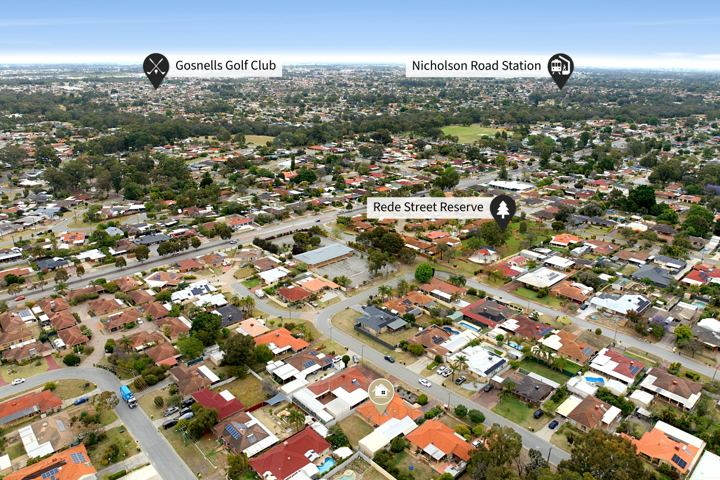
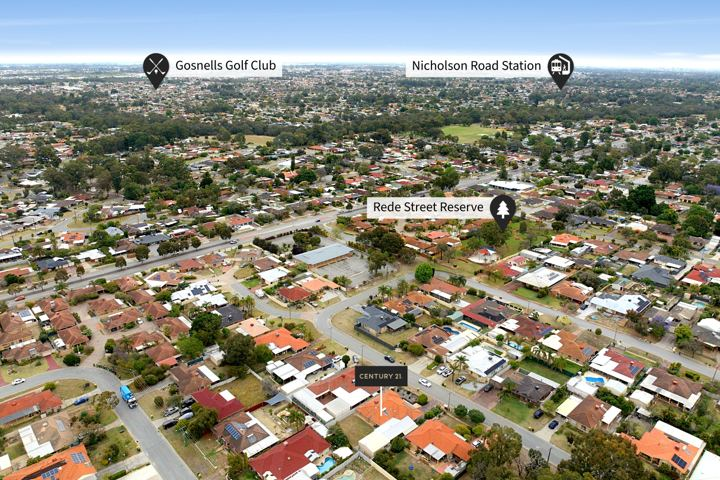
Century 21 board on the house pin (Jason) + 22 Sandridge re-pinned: important places over pocket reserves
Claude-Session: https://claude.ai/code/session_01A5qGg2LnJXxgSHoMQFvEEG

Changed region(s): [[0.4889, 0.75, 0.5806, 0.875]]

diff --git a/pins/index.html b/pins/index.html
@@ -253,6 +253,7 @@ const BAND_GAINS=[0.521, 0.274, -0.009, -0.091];
 
 // Agency marks cut from the editors' delivered finals (drawn clipped to a circle)
 const AGENCY_MARKS = {
[4 lines of base64/hex data omitted]
@@ -902,7 +903,7 @@ const AGENCIES = {
   "grey":        { name:"Default — plain grey pins (agency not recognised)", kind:"pin", color:"#8A8A8A", house:{ type:"pin", w:240, h:340, mark:"house", ring:true } },
   "rodway":      { name:"Rodway Group — black pins", kind:"pin", color:"#111111", line:"#2A2A2A", house:{ type:"pin", w:240, h:340, mark:"house", ring:true } },
 "charcoal":    { name:"Raspa — charcoal pins (John O'Brien, Simon Raspa)", kind:"pin", color:"#3A3C40", house:{ type:"pin", w:240, h:340, mark:"house", ring:true } },
-  "c21":         { name:"Century 21 — Obsessed Grey pins, Relentless Gold house (Josh Brockhurst)", kind:"pin", color:"#252526", house:{ type:"pin", w:240, h:340, mark:"house", ring:true, color:"#BEAF87" } },
+  "c21":         { name:"Century 21 — Obsessed Grey pins + Century 21 board (Josh Brockhurst)", kind:"pin", color:"#252526", house:{ type:"board", w:285, h:111, stem:160, mark:"c21" } },   /* 3 Nov (Jason): Century 21 logo board on the house */
   "grey-s":      { name:"Grey pins + S logo (Kasey Summers, Semple)",               kind:"pin",  color:"#9C9C9C", house:{ type:"pin", w:255, h:360, mark:"s", markR:.9, ring:true } },
   "black-photo": { name:"Black pins + agent photo (Jayden Cooke)",          kind:"pin",  color:"#060606", house:{ type:"pin", w:236, h:330, mark:"photo", markR:.69 } },
   "navy":        { name:"Navy pins + emblem (Biljana)",                     kind:"pin",  color:"#122068", scale:.88, house:{ type:"board", w:170, h:143, stem:300, mark:"emblem" } },

diff --git a/aerials/02-nov-2026/index.html b/aerials/02-nov-2026/index.html
@@ -5,4 +5,4 @@ body{margin:0;background:var(--bg);color:var(--fg);font:15px/1.45 system-ui,-app
 header,section{max-width:1400px;margin:auto;padding:18px 16px}h1{font-size:20px;margin:0}h2{font-size:17px;margin:0}header p,section p{color:var(--mut);margin:4px 0 0}
 .ed{margin-left:10px;color:var(--acc);font-weight:600;text-decoration:none}a{color:var(--acc)}
 .chk{margin-top:10px}.chk summary{cursor:pointer;color:var(--mut);font-weight:600}.chk iframe{width:100%;height:420px;border:0;border-radius:6px;margin-top:6px;background:#111}.g{display:grid;grid-template-columns:repeat(auto-fill,minmax(280px,1fr));gap:8px;margin-top:10px}.g img{width:100%;display:block;border-radius:4px}</style></head>
-<body><header><h1>Drone edits — Mon 2 Nov 2026</h1><p>Tap a photo for full size. <b>Edit</b> opens the job in the <a href="/pins/">editor</a> with all its pins and settings.</p></header><section><h2>14 Palomino Pl, Greenfields WA 6210</h2><p>David Beshay · Beshay Realty · 7 photos (top-downs first) <a class="ed" href="/pins/?open=02-nov-2026/14_palomino_pl">Edit</a><a class="ed" href="/lots/?img=/aerials/02-nov-2026/14_palomino_pl/src/DJI_20261102132705_0002_D_r270.jpg&street=Palomino%20Place" target="_blank">Lots</a><a class="ed" href="14_palomino_pl/check.html" target="_blank">Check map</a></p><div class="g"><a href="14_palomino_pl/DJI_20261102132705_0002_D_r270.jpg?v=1793662740" target="_blank"><img loading="lazy" src="14_palomino_pl/t/DJI_20261102132705_0002_D_r270.jpg?v=1793662740" alt=""></a><a href="14_palomino_pl/DJI_20261102132642_0001_D_r270.jpg?v=1793662740" target="_blank"><img loading="lazy" src="14_palomino_pl/t/DJI_20261102132642_0001_D_r270.jpg?v=1793662740" alt=""></a><a href="14_palomino_pl/DJI_20261102132733_0003_D.jpg?v=1793662740" target="_blank"><img loading="lazy" src="14_palomino_pl/t/DJI_20261102132733_0003_D.jpg?v=1793662740" alt=""></a><a href="14_palomino_pl/DJI_20261102132745_0004_D.jpg?v=1793662740" target="_blank"><img loading="lazy" src="14_palomino_pl/t/DJI_20261102132745_0004_D.jpg?v=1793662740" alt=""></a><a href="14_palomino_pl/DJI_20261102132803_0005_D.jpg?v=1793662740" target="_blank"><img loading="lazy" src="14_palomino_pl/t/DJI_20261102132803_0005_D.jpg?v=1793662740" alt=""></a><a href="14_palomino_pl/DJI_20261102132828_0006_D.jpg?v=1793662740" target="_blank"><img loading="lazy" src="14_palomino_pl/t/DJI_20261102132828_0006_D.jpg?v=1793662740" alt=""></a><a href="14_palomino_pl/DJI_20261102132849_0007_D.jpg?v=1793662740" target="_blank"><img loading="lazy" src="14_palomino_pl/t/DJI_20261102132849_0007_D.jpg?v=1793662740" alt=""></a></div><details class="chk" open><summary>Quick check — boundary + 7 pinned places</summary><iframe loading="lazy" src="14_palomino_pl/check.html?v=1793662742" title="Boundary and places check"></iframe></details></section><section><h2>32B Hetherington Dr, Bull Creek WA 6149</h2><p>Raymond Chen · Top Realty · 8 photos (top-downs first) <a class="ed" href="/pins/?open=02-nov-2026/32b_hetherington_dr">Edit</a><a class="ed" href="/lots/?img=/aerials/02-nov-2026/32b_hetherington_dr/src/dji_fly_20261102_120130_0118_1793624048044_photo_r180.jpg&street=Hetherington%20Drive" target="_blank">Lots</a><a class="ed" href="32b_hetherington_dr/check.html" target="_blank">Check map</a></p><div class="g"><a href="32b_hetherington_dr/dji_fly_20261102_120130_0118_1793624048044_photo_r180.jpg?v=1793662746" target="_blank"><img loading="lazy" src="32b_hetherington_dr/t/dji_fly_20261102_120130_0118_1793624048044_photo_r180.jpg?v=1793662746" alt=""></a><a href="32b_hetherington_dr/dji_fly_20261102_120116_0117_1793624048701_photo_r90.jpg?v=1793662746" target="_blank"><img loading="lazy" src="32b_hetherington_dr/t/dji_fly_20261102_120116_0117_1793624048701_photo_r90.jpg?v=1793662746" alt=""></a><a href="32b_hetherington_dr/dji_fly_20261102_120204_0119_1793624047389_photo.jpg?v=1793662746" target="_blank"><img loading="lazy" src="32b_hetherington_dr/t/dji_fly_20261102_120204_0119_1793624047389_photo.jpg?v=1793662746" alt=""></a><a href="32b_hetherington_dr/dji_fly_20261102_120232_0120_1793624046706_photo.jpg?v=1793662746" target="_blank"><img loading="lazy" src="32b_hetherington_dr/t/dji_fly_20261102_120232_0120_1793624046706_photo.jpg?v=1793662746" alt=""></a><a href="32b_hetherington_dr/dji_fly_20261102_120314_0121_1793624046011_photo.jpg?v=1793662746" target="_blank"><img loading="lazy" src="32b_hetherington_dr/t/dji_fly_20261102_120314_0121_1793624046011_photo.jpg?v=1793662746" alt=""></a><a href="32b_hetherington_dr/dji_fly_20261102_120404_0123_1793624044695_photo.jpg?v=1793662746" target="_blank"><img loading="lazy" src="32b_hetherington_dr/t/dji_fly_20261102_120404_0123_1793624044695_photo.jpg?v=1793662746" alt=""></a><a href="32b_hetherington_dr/dji_fly_20261102_120458_0125_1793624043444_photo.jpg?v=1793662746" target="_blank"><img loading="lazy" src="32b_hetherington_dr/t/dji_fly_20261102_120458_0125_1793624043444_photo.jpg?v=1793662746" alt=""></a><a href="32b_hetherington_dr/dji_fly_20261102_120518_0126_1793624042763_photo.jpg?v=1793662746" target="_blank"><img loading="lazy" src="32b_hetherington_dr/t/dji_fly_20261102_120518_0126_1793624042763_photo.jpg?v=1793662746" alt=""></a></div><details class="chk" open><summary>Quick check — boundary + 12 pinned places</summary><iframe loading="lazy" src="32b_hetherington_dr/check.html?v=1793662749" title="Boundary and places check"></iframe></details></section><section><h2>3 Bundalla Ct, Kelmscott WA 6111</h2><p>Naomi Nation (owner) · 11 photos (top-downs first) <a class="ed" href="/pins/?open=02-nov-2026/3_bundalla_ct">Edit</a><a class="ed" href="/lots/?img=/aerials/02-nov-2026/3_bundalla_ct/src/dji_fly_20261102_123202_0964_1793609126302_photo_r90.JPG&street=Bundalla%20Court" target="_blank">Lots</a><a class="ed" href="3_bundalla_ct/check.html" target="_blank">Check map</a></p><div class="g"><a href="3_bundalla_ct/dji_fly_20261102_123202_0964_1793609126302_photo_r90.jpg?v=1793662759" target="_blank"><img loading="lazy" src="3_bundalla_ct/t/dji_fly_20261102_123202_0964_1793609126302_photo_r90.jpg?v=1793662759" alt=""></a><a href="3_bundalla_ct/dji_fly_20261102_123204_0965_1793609124788_photo.jpg?v=1793662759" target="_blank"><img loading="lazy" src="3_bundalla_ct/t/dji_fly_20261102_123204_0965_1793609124788_photo.jpg?v=1793662759" alt=""></a><a href="3_bundalla_ct/dji_fly_20261102_122642_0955_1793609139081_photo.jpg?v=1793662759" target="_blank"><img loading="lazy" src="3_bundalla_ct/t/dji_fly_20261102_122642_0955_1793609139081_photo.jpg?v=1793662759" alt=""></a><a href="3_bundalla_ct/dji_fly_20261102_122920_0956_1793609137586_photo.jpg?v=1793662759" target="_blank"><img loading="lazy" src="3_bundalla_ct/t/dji_fly_20261102_122920_0956_1793609137586_photo.jpg?v=1793662759" alt=""></a><a href="3_bundalla_ct/dji_fly_20261102_122934_0957_1793609136345_photo.jpg?v=1793662759" target="_blank"><img loading="lazy" src="3_bundalla_ct/t/dji_fly_20261102_122934_0957_1793609136345_photo.jpg?v=1793662759" alt=""></a><a href="3_bundalla_ct/dji_fly_20261102_122952_0958_1793609134672_photo.jpg?v=1793662759" target="_blank"><img loading="lazy" src="3_bundalla_ct/t/dji_fly_20261102_122952_0958_1793609134672_photo.jpg?v=1793662759" alt=""></a><a href="3_bundalla_ct/dji_fly_20261102_123010_0959_1793609132937_photo.jpg?v=1793662759" target="_blank"><img loading="lazy" src="3_bundalla_ct/t/dji_fly_20261102_123010_0959_1793609132937_photo.jpg?v=1793662759" alt=""></a><a href="3_bundalla_ct/dji_fly_20261102_123040_0960_1793609131670_photo.jpg?v=1793662759" target="_blank"><img loading="lazy" src="3_bundalla_ct/t/dji_fly_20261102_123040_0960_1793609131670_photo.jpg?v=1793662759" alt=""></a><a href="3_bundalla_ct/dji_fly_20261102_123102_0961_1793609130439_photo.jpg?v=1793662759" target="_blank"><img loading="lazy" src="3_bundalla_ct/t/dji_fly_20261102_123102_0961_1793609130439_photo.jpg?v=1793662759" alt=""></a><a href="3_bundalla_ct/dji_fly_20261102_123116_0962_1793609128996_photo.jpg?v=1793662759" target="_blank"><img loading="lazy" src="3_bundalla_ct/t/dji_fly_20261102_123116_0962_1793609128996_photo.jpg?v=1793662759" alt=""></a><a href="3_bundalla_ct/dji_fly_20261102_123128_0963_1793609127652_photo.jpg?v=1793662759" target="_blank"><img loading="lazy" src="3_bundalla_ct/t/dji_fly_20261102_123128_0963_1793609127652_photo.jpg?v=1793662759" alt=""></a></div><details class="chk" open><summary>Quick check — boundary + 19 pinned places</summary><iframe loading="lazy" src="3_bundalla_ct/check.html?v=1793662762" title="Boundary and places check"></iframe></details></section><section><h2>14 Graceful St, Byford WA 6122</h2><p>Lou Smith · Harcourts · 9 photos (top-downs first) <a class="ed" href="/pins/?open=02-nov-2026/14_graceful_st">Edit</a><a class="ed" href="/lots/?img=/aerials/02-nov-2026/14_graceful_st/src/DJI_20261102201951_0035_D.jpg&street=Graceful%20Street" target="_blank">Lots</a><a class="ed" href="14_graceful_st/check.html" target="_blank">Check map</a></p><div class="g"><a href="14_graceful_st/DJI_20261102201951_0035_D.jpg?v=1793662765" target="_blank"><img loading="lazy" src="14_graceful_st/t/DJI_20261102201951_0035_D.jpg?v=1793662765" alt=""></a><a href="14_graceful_st/DJI_20261102201940_0034_D_r90.jpg?v=1793662765" target="_blank"><img loading="lazy" src="14_graceful_st/t/DJI_20261102201940_0034_D_r90.jpg?v=1793662765" alt=""></a><a href="14_graceful_st/DJI_20261102202018_0036_D.jpg?v=1793662765" target="_blank"><img loading="lazy" src="14_graceful_st/t/DJI_20261102202018_0036_D.jpg?v=1793662765" alt=""></a><a href="14_graceful_st/DJI_20261102202056_0038_D.jpg?v=1793662765" target="_blank"><img loading="lazy" src="14_graceful_st/t/DJI_20261102202056_0038_D.jpg?v=1793662765" alt=""></a><a href="14_graceful_st/DJI_20261102202114_0039_D.jpg?v=1793662765" target="_blank"><img loading="lazy" src="14_graceful_st/t/DJI_20261102202114_0039_D.jpg?v=1793662765" alt=""></a><a href="14_graceful_st/DJI_20261102202130_0040_D.jpg?v=1793662765" target="_blank"><img loading="lazy" src="14_graceful_st/t/DJI_20261102202130_0040_D.jpg?v=1793662765" alt=""></a><a href="14_graceful_st/DJI_20261102202149_0041_D.jpg?v=1793662765" target="_blank"><img loading="lazy" src="14_graceful_st/t/DJI_20261102202149_0041_D.jpg?v=1793662765" alt=""></a><a href="14_graceful_st/DJI_20261102202206_0042_D.jpg?v=1793662765" target="_blank"><img loading="lazy" src="14_graceful_st/t/DJI_20261102202206_0042_D.jpg?v=1793662765" alt=""></a><a href="14_graceful_st/DJI_20261102202224_0043_D.jpg?v=1793662765" target="_blank"><img loading="lazy" src="14_graceful_st/t/DJI_20261102202224_0043_D.jpg?v=1793662765" alt=""></a></div><details class="chk" open><summary>Quick check — boundary + 11 pinned places</summary><iframe loading="lazy" src="14_graceful_st/check.html?v=1793662766" title="Boundary and places check"></iframe></details></section><section><h2>22 Sandridge St, Gosnells WA 6110</h2><p>Danny Sharrett · Century 21 Team Brockhurst · 10 photos (top-downs first) <a class="ed" href="/pins/?open=02-nov-2026/22_sandridge_st">Edit</a><a class="ed" href="/lots/?img=/aerials/02-nov-2026/22_sandridge_st/src/DJI_20261102175303_0025_D.jpg&street=Sandridge%20Street" target="_blank">Lots</a><a class="ed" href="22_sandridge_st/check.html" target="_blank">Check map</a></p><div class="g"><a href="22_sandridge_st/22_sandridge_st_potential_lots.jpg" target="_blank"><img loading="lazy" src="22_sandridge_st/t/22_sandridge_st_potential_lots.jpg" alt="Potential 2 lots"></a><a href="22_sandridge_st/DJI_20261102175303_0025_D.jpg?v=1793662770" target="_blank"><img loading="lazy" src="22_sandridge_st/t/DJI_20261102175303_0025_D.jpg?v=1793662770" alt=""></a><a href="22_sandridge_st/DJI_20261102175251_0024_D_r270.jpg?v=1793662770" target="_blank"><img loading="lazy" src="22_sandridge_st/t/DJI_20261102175251_0024_D_r270.jpg?v=1793662770" alt=""></a><a href="22_sandridge_st/DJI_20261102175327_0026_D.jpg?v=1793662770" target="_blank"><img loading="lazy" src="22_sandridge_st/t/DJI_20261102175327_0026_D.jpg?v=1793662770" alt=""></a><a href="22_sandridge_st/DJI_20261102175340_0027_D.jpg?v=1793662770" target="_blank"><img loading="lazy" src="22_sandridge_st/t/DJI_20261102175340_0027_D.jpg?v=1793662770" alt=""></a><a href="22_sandridge_st/DJI_20261102175355_0028_D.jpg?v=1793662770" target="_blank"><img loading="lazy" src="22_sandridge_st/t/DJI_20261102175355_0028_D.jpg?v=1793662770" alt=""></a><a href="22_sandridge_st/DJI_20261102175407_0029_D.jpg?v=1793662770" target="_blank"><img loading="lazy" src="22_sandridge_st/t/DJI_20261102175407_0029_D.jpg?v=1793662770" alt=""></a><a href="22_sandridge_st/DJI_20261102175423_0030_D.jpg?v=1793662770" target="_blank"><img loading="lazy" src="22_sandridge_st/t/DJI_20261102175423_0030_D.jpg?v=1793662770" alt=""></a><a href="22_sandridge_st/DJI_20261102175436_0031_D.jpg?v=1793662770" target="_blank"><img loading="lazy" src="22_sandridge_st/t/DJI_20261102175436_0031_D.jpg?v=1793662770" alt=""></a><a href="22_sandridge_st/DJI_20261102175449_0032_D.jpg?v=1793662770" target="_blank"><img loading="lazy" src="22_sandridge_st/t/DJI_20261102175449_0032_D.jpg?v=1793662770" alt=""></a><a href="22_sandridge_st/DJI_20261102175502_0033_D.jpg?v=1793662770" target="_blank"><img loading="lazy" src="22_sandridge_st/t/DJI_20261102175502_0033_D.jpg?v=1793662770" alt=""></a></div><details class="chk" open><summary>Quick check — boundary + 14 pinned places</summary><iframe loading="lazy" src="22_sandridge_st/check.html?v=1793662772" title="Boundary and places check"></iframe></details></section><section><h2>10 Spotted Wy, Alkimos WA 6038</h2><p>Brodie Morris · Northern Coast · 8 photos (top-downs first) <a class="ed" href="/pins/?open=02-nov-2026/10_spotted_wy">Edit</a><a class="ed" href="/lots/?img=/aerials/02-nov-2026/10_spotted_wy/src/dji_fly_20261102_161908_0127_1793624042210_photo_r270.jpg&street=Spotted%20Way" target="_blank">Lots</a><a class="ed" href="10_spotted_wy/check.html" target="_blank">Check map</a></p><div class="g"><a href="10_spotted_wy/dji_fly_20261102_161908_0127_1793624042210_photo_r270.jpg?v=1793662776" target="_blank"><img loading="lazy" src="10_spotted_wy/t/dji_fly_20261102_161908_0127_1793624042210_photo_r270.jpg?v=1793662776" alt=""></a><a href="10_spotted_wy/dji_fly_20261102_161928_0128_1793624041469_photo_r180.jpg?v=1793662776" target="_blank"><img loading="lazy" src="10_spotted_wy/t/dji_fly_20261102_161928_0128_1793624041469_photo_r180.jpg?v=1793662776" alt=""></a><a href="10_spotted_wy/dji_fly_20261102_162120_0130_1793624040060_photo.jpg?v=1793662776" target="_blank"><img loading="lazy" src="10_spotted_wy/t/dji_fly_20261102_162120_0130_1793624040060_photo.jpg?v=1793662776" alt=""></a><a href="10_spotted_wy/dji_fly_20261102_162206_0131_1793624039343_photo.jpg?v=1793662776" target="_blank"><img loading="lazy" src="10_spotted_wy/t/dji_fly_20261102_162206_0131_1793624039343_photo.jpg?v=1793662776" alt=""></a><a href="10_spotted_wy/dji_fly_20261102_162304_0133_1793624037995_photo.jpg?v=1793662776" target="_blank"><img loading="lazy" src="10_spotted_wy/t/dji_fly_20261102_162304_0133_1793624037995_photo.jpg?v=1793662776" alt=""></a><a href="10_spotted_wy/dji_fly_20261102_162342_0134_1793624037277_photo.jpg?v=1793662776" target="_blank"><img loading="lazy" src="10_spotted_wy/t/dji_fly_20261102_162342_0134_1793624037277_photo.jpg?v=1793662776" alt=""></a><a href="10_spotted_wy/dji_fly_20261102_162530_0136_1793624035993_photo.jpg?v=1793662776" target="_blank"><img loading="lazy" src="10_spotted_wy/t/dji_fly_20261102_162530_0136_1793624035993_photo.jpg?v=1793662776" alt=""></a><a href="10_spotted_wy/dji_fly_20261102_162618_0137_1793624035325_photo.jpg?v=1793662776" target="_blank"><img loading="lazy" src="10_spotted_wy/t/dji_fly_20261102_162618_0137_1793624035325_photo.jpg?v=1793662776" alt=""></a></div><details class="chk" open><summary>Quick check — boundary + 12 pinned places</summary><iframe loading="lazy" src="10_spotted_wy/check.html?v=1793662778" title="Boundary and places check"></iframe></details></section><section><h2>9/95 Tyler St, Tuart Hill WA 6060</h2><p>Telaya · Holdsworth · 9 photos (top-downs first) <a class="ed" href="/pins/?open=02-nov-2026/9_95_tyler_st">Edit</a><a class="ed" href="/lots/?img=/aerials/02-nov-2026/9_95_tyler_st/src/dji_fly_20261102_173256_0139_1793624033900_photo_r90.jpg&street=Tyler%20Street" target="_blank">Lots</a><a class="ed" href="9_95_tyler_st/check.html" target="_blank">Check map</a></p><div class="g"><a href="9_95_tyler_st/dji_fly_20261102_173256_0139_1793624033900_photo_r90.jpg?v=1793662783" target="_blank"><img loading="lazy" src="9_95_tyler_st/t/dji_fly_20261102_173256_0139_1793624033900_photo_r90.jpg?v=1793662783" alt=""></a><a href="9_95_tyler_st/dji_fly_20261102_173246_0138_1793624034672_photo_r90.jpg?v=1793662783" target="_blank"><img loading="lazy" src="9_95_tyler_st/t/dji_fly_20261102_173246_0138_1793624034672_photo_r90.jpg?v=1793662783" alt=""></a><a href="9_95_tyler_st/dji_fly_20261102_173322_0140_1793624033230_photo.jpg?v=1793662783" target="_blank"><img loading="lazy" src="9_95_tyler_st/t/dji_fly_20261102_173322_0140_1793624033230_photo.jpg?v=1793662783" alt=""></a><a href="9_95_tyler_st/dji_fly_20261102_173456_0141_1793624032570_photo.jpg?v=1793662783" target="_blank"><img loading="lazy" src="9_95_tyler_st/t/dji_fly_20261102_173456_0141_1793624032570_photo.jpg?v=1793662783" alt=""></a><a href="9_95_tyler_st/dji_fly_20261102_173538_0143_1793624031197_photo.jpg?v=1793662783" target="_blank"><img loading="lazy" src="9_95_tyler_st/t/dji_fly_20261102_173538_0143_1793624031197_photo.jpg?v=1793662783" alt=""></a><a href="9_95_tyler_st/dji_fly_20261102_173558_0144_1793624030502_photo.jpg?v=1793662783" target="_blank"><img loading="lazy" src="9_95_tyler_st/t/dji_fly_20261102_173558_0144_1793624030502_photo.jpg?v=1793662783" alt=""></a><a href="9_95_tyler_st/dji_fly_20261102_173628_0145_1793624029861_photo.jpg?v=1793662783" target="_blank"><img loading="lazy" src="9_95_tyler_st/t/dji_fly_20261102_173628_0145_1793624029861_photo.jpg?v=1793662783" alt=""></a><a href="9_95_tyler_st/dji_fly_20261102_173650_0146_1793624029124_photo.jpg?v=1793662783" target="_blank"><img loading="lazy" src="9_95_tyler_st/t/dji_fly_20261102_173650_0146_1793624029124_photo.jpg?v=1793662783" alt=""></a><a href="9_95_tyler_st/dji_fly_20261102_173710_0147_1793624028372_photo.jpg?v=1793662783" target="_blank"><img loading="lazy" src="9_95_tyler_st/t/dji_fly_20261102_173710_0147_1793624028372_photo.jpg?v=1793662783" alt=""></a></div><details class="chk" open><summary>Quick check — boundary + 10 pinned places</summary><iframe loading="lazy" src="9_95_tyler_st/check.html?v=1793662785" title="Boundary and places check"></iframe></details></section><script src="../dl.js"></script></body></html>
+<body><header><h1>Drone edits — Mon 2 Nov 2026</h1><p>Tap a photo for full size. <b>Edit</b> opens the job in the <a href="/pins/">editor</a> with all its pins and settings.</p></header><section><h2>14 Palomino Pl, Greenfields WA 6210</h2><p>David Beshay · Beshay Realty · 7 photos (top-downs first) <a class="ed" href="/pins/?open=02-nov-2026/14_palomino_pl">Edit</a><a class="ed" href="/lots/?img=/aerials/02-nov-2026/14_palomino_pl/src/DJI_20261102132705_0002_D_r270.jpg&street=Palomino%20Place" target="_blank">Lots</a><a class="ed" href="14_palomino_pl/check.html" target="_blank">Check map</a></p><div class="g"><a href="14_palomino_pl/DJI_20261102132705_0002_D_r270.jpg?v=1793662740" target="_blank"><img loading="lazy" src="14_palomino_pl/t/DJI_20261102132705_0002_D_r270.jpg?v=1793662740" alt=""></a><a href="14_palomino_pl/DJI_20261102132642_0001_D_r270.jpg?v=1793662740" target="_blank"><img loading="lazy" src="14_palomino_pl/t/DJI_20261102132642_0001_D_r270.jpg?v=1793662740" alt=""></a><a href="14_palomino_pl/DJI_20261102132733_0003_D.jpg?v=1793662740" target="_blank"><img loading="lazy" src="14_palomino_pl/t/DJI_20261102132733_0003_D.jpg?v=1793662740" alt=""></a><a href="14_palomino_pl/DJI_20261102132745_0004_D.jpg?v=1793662740" target="_blank"><img loading="lazy" src="14_palomino_pl/t/DJI_20261102132745_0004_D.jpg?v=1793662740" alt=""></a><a href="14_palomino_pl/DJI_20261102132803_0005_D.jpg?v=1793662740" target="_blank"><img loading="lazy" src="14_palomino_pl/t/DJI_20261102132803_0005_D.jpg?v=1793662740" alt=""></a><a href="14_palomino_pl/DJI_20261102132828_0006_D.jpg?v=1793662740" target="_blank"><img loading="lazy" src="14_palomino_pl/t/DJI_20261102132828_0006_D.jpg?v=1793662740" alt=""></a><a href="14_palomino_pl/DJI_20261102132849_0007_D.jpg?v=1793662740" target="_blank"><img loading="lazy" src="14_palomino_pl/t/DJI_20261102132849_0007_D.jpg?v=1793662740" alt=""></a></div><details class="chk" open><summary>Quick check — boundary + 7 pinned places</summary><iframe loading="lazy" src="14_palomino_pl/check.html?v=1793662742" title="Boundary and places check"></iframe></details></section><section><h2>32B Hetherington Dr, Bull Creek WA 6149</h2><p>Raymond Chen · Top Realty · 8 photos (top-downs first) <a class="ed" href="/pins/?open=02-nov-2026/32b_hetherington_dr">Edit</a><a class="ed" href="/lots/?img=/aerials/02-nov-2026/32b_hetherington_dr/src/dji_fly_20261102_120130_0118_1793624048044_photo_r180.jpg&street=Hetherington%20Drive" target="_blank">Lots</a><a class="ed" href="32b_hetherington_dr/check.html" target="_blank">Check map</a></p><div class="g"><a href="32b_hetherington_dr/dji_fly_20261102_120130_0118_1793624048044_photo_r180.jpg?v=1793662746" target="_blank"><img loading="lazy" src="32b_hetherington_dr/t/dji_fly_20261102_120130_0118_1793624048044_photo_r180.jpg?v=1793662746" alt=""></a><a href="32b_hetherington_dr/dji_fly_20261102_120116_0117_1793624048701_photo_r90.jpg?v=1793662746" target="_blank"><img loading="lazy" src="32b_hetherington_dr/t/dji_fly_20261102_120116_0117_1793624048701_photo_r90.jpg?v=1793662746" alt=""></a><a href="32b_hetherington_dr/dji_fly_20261102_120204_0119_1793624047389_photo.jpg?v=1793662746" target="_blank"><img loading="lazy" src="32b_hetherington_dr/t/dji_fly_20261102_120204_0119_1793624047389_photo.jpg?v=1793662746" alt=""></a><a href="32b_hetherington_dr/dji_fly_20261102_120232_0120_1793624046706_photo.jpg?v=1793662746" target="_blank"><img loading="lazy" src="32b_hetherington_dr/t/dji_fly_20261102_120232_0120_1793624046706_photo.jpg?v=1793662746" alt=""></a><a href="32b_hetherington_dr/dji_fly_20261102_120314_0121_1793624046011_photo.jpg?v=1793662746" target="_blank"><img loading="lazy" src="32b_hetherington_dr/t/dji_fly_20261102_120314_0121_1793624046011_photo.jpg?v=1793662746" alt=""></a><a href="32b_hetherington_dr/dji_fly_20261102_120404_0123_1793624044695_photo.jpg?v=1793662746" target="_blank"><img loading="lazy" src="32b_hetherington_dr/t/dji_fly_20261102_120404_0123_1793624044695_photo.jpg?v=1793662746" alt=""></a><a href="32b_hetherington_dr/dji_fly_20261102_120458_0125_1793624043444_photo.jpg?v=1793662746" target="_blank"><img loading="lazy" src="32b_hetherington_dr/t/dji_fly_20261102_120458_0125_1793624043444_photo.jpg?v=1793662746" alt=""></a><a href="32b_hetherington_dr/dji_fly_20261102_120518_0126_1793624042763_photo.jpg?v=1793662746" target="_blank"><img loading="lazy" src="32b_hetherington_dr/t/dji_fly_20261102_120518_0126_1793624042763_photo.jpg?v=1793662746" alt=""></a></div><details class="chk" open><summary>Quick check — boundary + 12 pinned places</summary><iframe loading="lazy" src="32b_hetherington_dr/check.html?v=1793662749" title="Boundary and places check"></iframe></details></section><section><h2>3 Bundalla Ct, Kelmscott WA 6111</h2><p>Naomi Nation (owner) · 11 photos (top-downs first) <a class="ed" href="/pins/?open=02-nov-2026/3_bundalla_ct">Edit</a><a class="ed" href="/lots/?img=/aerials/02-nov-2026/3_bundalla_ct/src/dji_fly_20261102_123202_0964_1793609126302_photo_r90.JPG&street=Bundalla%20Court" target="_blank">Lots</a><a class="ed" href="3_bundalla_ct/check.html" target="_blank">Check map</a></p><div class="g"><a href="3_bundalla_ct/dji_fly_20261102_123202_0964_1793609126302_photo_r90.jpg?v=1793662759" target="_blank"><img loading="lazy" src="3_bundalla_ct/t/dji_fly_20261102_123202_0964_1793609126302_photo_r90.jpg?v=1793662759" alt=""></a><a href="3_bundalla_ct/dji_fly_20261102_123204_0965_1793609124788_photo.jpg?v=1793662759" target="_blank"><img loading="lazy" src="3_bundalla_ct/t/dji_fly_20261102_123204_0965_1793609124788_photo.jpg?v=1793662759" alt=""></a><a href="3_bundalla_ct/dji_fly_20261102_122642_0955_1793609139081_photo.jpg?v=1793662759" target="_blank"><img loading="lazy" src="3_bundalla_ct/t/dji_fly_20261102_122642_0955_1793609139081_photo.jpg?v=1793662759" alt=""></a><a href="3_bundalla_ct/dji_fly_20261102_122920_0956_1793609137586_photo.jpg?v=1793662759" target="_blank"><img loading="lazy" src="3_bundalla_ct/t/dji_fly_20261102_122920_0956_1793609137586_photo.jpg?v=1793662759" alt=""></a><a href="3_bundalla_ct/dji_fly_20261102_122934_0957_1793609136345_photo.jpg?v=1793662759" target="_blank"><img loading="lazy" src="3_bundalla_ct/t/dji_fly_20261102_122934_0957_1793609136345_photo.jpg?v=1793662759" alt=""></a><a href="3_bundalla_ct/dji_fly_20261102_122952_0958_1793609134672_photo.jpg?v=1793662759" target="_blank"><img loading="lazy" src="3_bundalla_ct/t/dji_fly_20261102_122952_0958_1793609134672_photo.jpg?v=1793662759" alt=""></a><a href="3_bundalla_ct/dji_fly_20261102_123010_0959_1793609132937_photo.jpg?v=1793662759" target="_blank"><img loading="lazy" src="3_bundalla_ct/t/dji_fly_20261102_123010_0959_1793609132937_photo.jpg?v=1793662759" alt=""></a><a href="3_bundalla_ct/dji_fly_20261102_123040_0960_1793609131670_photo.jpg?v=1793662759" target="_blank"><img loading="lazy" src="3_bundalla_ct/t/dji_fly_20261102_123040_0960_1793609131670_photo.jpg?v=1793662759" alt=""></a><a href="3_bundalla_ct/dji_fly_20261102_123102_0961_1793609130439_photo.jpg?v=1793662759" target="_blank"><img loading="lazy" src="3_bundalla_ct/t/dji_fly_20261102_123102_0961_1793609130439_photo.jpg?v=1793662759" alt=""></a><a href="3_bundalla_ct/dji_fly_20261102_123116_0962_1793609128996_photo.jpg?v=1793662759" target="_blank"><img loading="lazy" src="3_bundalla_ct/t/dji_fly_20261102_123116_0962_1793609128996_photo.jpg?v=1793662759" alt=""></a><a href="3_bundalla_ct/dji_fly_20261102_123128_0963_1793609127652_photo.jpg?v=1793662759" target="_blank"><img loading="lazy" src="3_bundalla_ct/t/dji_fly_20261102_123128_0963_1793609127652_photo.jpg?v=1793662759" alt=""></a></div><details class="chk" open><summary>Quick check — boundary + 19 pinned places</summary><iframe loading="lazy" src="3_bundalla_ct/check.html?v=1793662762" title="Boundary and places check"></iframe></details></section><section><h2>14 Graceful St, Byford WA 6122</h2><p>Lou Smith · Harcourts · 9 photos (top-downs first) <a class="ed" href="/pins/?open=02-nov-2026/14_graceful_st">Edit</a><a class="ed" href="/lots/?img=/aerials/02-nov-2026/14_graceful_st/src/DJI_20261102201951_0035_D.jpg&street=Graceful%20Street" target="_blank">Lots</a><a class="ed" href="14_graceful_st/check.html" target="_blank">Check map</a></p><div class="g"><a href="14_graceful_st/DJI_20261102201951_0035_D.jpg?v=1793662765" target="_blank"><img loading="lazy" src="14_graceful_st/t/DJI_20261102201951_0035_D.jpg?v=1793662765" alt=""></a><a href="14_graceful_st/DJI_20261102201940_0034_D_r90.jpg?v=1793662765" target="_blank"><img loading="lazy" src="14_graceful_st/t/DJI_20261102201940_0034_D_r90.jpg?v=1793662765" alt=""></a><a href="14_graceful_st/DJI_20261102202018_0036_D.jpg?v=1793662765" target="_blank"><img loading="lazy" src="14_graceful_st/t/DJI_20261102202018_0036_D.jpg?v=1793662765" alt=""></a><a href="14_graceful_st/DJI_20261102202056_0038_D.jpg?v=1793662765" target="_blank"><img loading="lazy" src="14_graceful_st/t/DJI_20261102202056_0038_D.jpg?v=1793662765" alt=""></a><a href="14_graceful_st/DJI_20261102202114_0039_D.jpg?v=1793662765" target="_blank"><img loading="lazy" src="14_graceful_st/t/DJI_20261102202114_0039_D.jpg?v=1793662765" alt=""></a><a href="14_graceful_st/DJI_20261102202130_0040_D.jpg?v=1793662765" target="_blank"><img loading="lazy" src="14_graceful_st/t/DJI_20261102202130_0040_D.jpg?v=1793662765" alt=""></a><a href="14_graceful_st/DJI_20261102202149_0041_D.jpg?v=1793662765" target="_blank"><img loading="lazy" src="14_graceful_st/t/DJI_20261102202149_0041_D.jpg?v=1793662765" alt=""></a><a href="14_graceful_st/DJI_20261102202206_0042_D.jpg?v=1793662765" target="_blank"><img loading="lazy" src="14_graceful_st/t/DJI_20261102202206_0042_D.jpg?v=1793662765" alt=""></a><a href="14_graceful_st/DJI_20261102202224_0043_D.jpg?v=1793662765" target="_blank"><img loading="lazy" src="14_graceful_st/t/DJI_20261102202224_0043_D.jpg?v=1793662765" alt=""></a></div><details class="chk" open><summary>Quick check — boundary + 11 pinned places</summary><iframe loading="lazy" src="14_graceful_st/check.html?v=1793662766" title="Boundary and places check"></iframe></details></section><section><h2>22 Sandridge St, Gosnells WA 6110</h2><p>Danny Sharrett · Century 21 Team Brockhurst · 10 photos (top-downs first) <a class="ed" href="/pins/?open=02-nov-2026/22_sandridge_st">Edit</a><a class="ed" href="/lots/?img=/aerials/02-nov-2026/22_sandridge_st/src/DJI_20261102175303_0025_D.jpg&street=Sandridge%20Street" target="_blank">Lots</a><a class="ed" href="22_sandridge_st/check.html" target="_blank">Check map</a></p><div class="g"><a href="22_sandridge_st/22_sandridge_st_potential_lots.jpg" target="_blank"><img loading="lazy" src="22_sandridge_st/t/22_sandridge_st_potential_lots.jpg" alt="Potential 2 lots"></a><a href="22_sandridge_st/DJI_20261102175303_0025_D.jpg?v=1793730000" target="_blank"><img loading="lazy" src="22_sandridge_st/t/DJI_20261102175303_0025_D.jpg?v=1793730000" alt=""></a><a href="22_sandridge_st/DJI_20261102175251_0024_D_r270.jpg?v=1793730000" target="_blank"><img loading="lazy" src="22_sandridge_st/t/DJI_20261102175251_0024_D_r270.jpg?v=1793730000" alt=""></a><a href="22_sandridge_st/DJI_20261102175327_0026_D.jpg?v=1793730000" target="_blank"><img loading="lazy" src="22_sandridge_st/t/DJI_20261102175327_0026_D.jpg?v=1793730000" alt=""></a><a href="22_sandridge_st/DJI_20261102175340_0027_D.jpg?v=1793730000" target="_blank"><img loading="lazy" src="22_sandridge_st/t/DJI_20261102175340_0027_D.jpg?v=1793730000" alt=""></a><a href="22_sandridge_st/DJI_20261102175355_0028_D.jpg?v=1793730000" target="_blank"><img loading="lazy" src="22_sandridge_st/t/DJI_20261102175355_0028_D.jpg?v=1793730000" alt=""></a><a href="22_sandridge_st/DJI_20261102175407_0029_D.jpg?v=1793730000" target="_blank"><img loading="lazy" src="22_sandridge_st/t/DJI_20261102175407_0029_D.jpg?v=1793730000" alt=""></a><a href="22_sandridge_st/DJI_20261102175423_0030_D.jpg?v=1793730000" target="_blank"><img loading="lazy" src="22_sandridge_st/t/DJI_20261102175423_0030_D.jpg?v=1793730000" alt=""></a><a href="22_sandridge_st/DJI_20261102175436_0031_D.jpg?v=1793730000" target="_blank"><img loading="lazy" src="22_sandridge_st/t/DJI_20261102175436_0031_D.jpg?v=1793730000" alt=""></a><a href="22_sandridge_st/DJI_20261102175449_0032_D.jpg?v=1793730000" target="_blank"><img loading="lazy" src="22_sandridge_st/t/DJI_20261102175449_0032_D.jpg?v=1793730000" alt=""></a><a href="22_sandridge_st/DJI_20261102175502_0033_D.jpg?v=1793730000" target="_blank"><img loading="lazy" src="22_sandridge_st/t/DJI_20261102175502_0033_D.jpg?v=1793730000" alt=""></a></div><details class="chk" open><summary>Quick check — boundary + 14 pinned places</summary><iframe loading="lazy" src="22_sandridge_st/check.html?v=1793662772" title="Boundary and places check"></iframe></details></section><section><h2>10 Spotted Wy, Alkimos WA 6038</h2><p>Brodie Morris · Northern Coast · 8 photos (top-downs first) <a class="ed" href="/pins/?open=02-nov-2026/10_spotted_wy">Edit</a><a class="ed" href="/lots/?img=/aerials/02-nov-2026/10_spotted_wy/src/dji_fly_20261102_161908_0127_1793624042210_photo_r270.jpg&street=Spotted%20Way" target="_blank">Lots</a><a class="ed" href="10_spotted_wy/check.html" target="_blank">Check map</a></p><div class="g"><a href="10_spotted_wy/dji_fly_20261102_161908_0127_1793624042210_photo_r270.jpg?v=1793662776" target="_blank"><img loading="lazy" src="10_spotted_wy/t/dji_fly_20261102_161908_0127_1793624042210_photo_r270.jpg?v=1793662776" alt=""></a><a href="10_spotted_wy/dji_fly_20261102_161928_0128_1793624041469_photo_r180.jpg?v=1793662776" target="_blank"><img loading="lazy" src="10_spotted_wy/t/dji_fly_20261102_161928_0128_1793624041469_photo_r180.jpg?v=1793662776" alt=""></a><a href="10_spotted_wy/dji_fly_20261102_162120_0130_1793624040060_photo.jpg?v=1793662776" target="_blank"><img loading="lazy" src="10_spotted_wy/t/dji_fly_20261102_162120_0130_1793624040060_photo.jpg?v=1793662776" alt=""></a><a href="10_spotted_wy/dji_fly_20261102_162206_0131_1793624039343_photo.jpg?v=1793662776" target="_blank"><img loading="lazy" src="10_spotted_wy/t/dji_fly_20261102_162206_0131_1793624039343_photo.jpg?v=1793662776" alt=""></a><a href="10_spotted_wy/dji_fly_20261102_162304_0133_1793624037995_photo.jpg?v=1793662776" target="_blank"><img loading="lazy" src="10_spotted_wy/t/dji_fly_20261102_162304_0133_1793624037995_photo.jpg?v=1793662776" alt=""></a><a href="10_spotted_wy/dji_fly_20261102_162342_0134_1793624037277_photo.jpg?v=1793662776" target="_blank"><img loading="lazy" src="10_spotted_wy/t/dji_fly_20261102_162342_0134_1793624037277_photo.jpg?v=1793662776" alt=""></a><a href="10_spotted_wy/dji_fly_20261102_162530_0136_1793624035993_photo.jpg?v=1793662776" target="_blank"><img loading="lazy" src="10_spotted_wy/t/dji_fly_20261102_162530_0136_1793624035993_photo.jpg?v=1793662776" alt=""></a><a href="10_spotted_wy/dji_fly_20261102_162618_0137_1793624035325_photo.jpg?v=1793662776" target="_blank"><img loading="lazy" src="10_spotted_wy/t/dji_fly_20261102_162618_0137_1793624035325_photo.jpg?v=1793662776" alt=""></a></div><details class="chk" open><summary>Quick check — boundary + 12 pinned places</summary><iframe loading="lazy" src="10_spotted_wy/check.html?v=1793662778" title="Boundary and places check"></iframe></details></section><section><h2>9/95 Tyler St, Tuart Hill WA 6060</h2><p>Telaya · Holdsworth · 9 photos (top-downs first) <a class="ed" href="/pins/?open=02-nov-2026/9_95_tyler_st">Edit</a><a class="ed" href="/lots/?img=/aerials/02-nov-2026/9_95_tyler_st/src/dji_fly_20261102_173256_0139_1793624033900_photo_r90.jpg&street=Tyler%20Street" target="_blank">Lots</a><a class="ed" href="9_95_tyler_st/check.html" target="_blank">Check map</a></p><div class="g"><a href="9_95_tyler_st/dji_fly_20261102_173256_0139_1793624033900_photo_r90.jpg?v=1793662783" target="_blank"><img loading="lazy" src="9_95_tyler_st/t/dji_fly_20261102_173256_0139_1793624033900_photo_r90.jpg?v=1793662783" alt=""></a><a href="9_95_tyler_st/dji_fly_20261102_173246_0138_1793624034672_photo_r90.jpg?v=1793662783" target="_blank"><img loading="lazy" src="9_95_tyler_st/t/dji_fly_20261102_173246_0138_1793624034672_photo_r90.jpg?v=1793662783" alt=""></a><a href="9_95_tyler_st/dji_fly_20261102_173322_0140_1793624033230_photo.jpg?v=1793662783" target="_blank"><img loading="lazy" src="9_95_tyler_st/t/dji_fly_20261102_173322_0140_1793624033230_photo.jpg?v=1793662783" alt=""></a><a href="9_95_tyler_st/dji_fly_20261102_173456_0141_1793624032570_photo.jpg?v=1793662783" target="_blank"><img loading="lazy" src="9_95_tyler_st/t/dji_fly_20261102_173456_0141_1793624032570_photo.jpg?v=1793662783" alt=""></a><a href="9_95_tyler_st/dji_fly_20261102_173538_0143_1793624031197_photo.jpg?v=1793662783" target="_blank"><img loading="lazy" src="9_95_tyler_st/t/dji_fly_20261102_173538_0143_1793624031197_photo.jpg?v=1793662783" alt=""></a><a href="9_95_tyler_st/dji_fly_20261102_173558_0144_1793624030502_photo.jpg?v=1793662783" target="_blank"><img loading="lazy" src="9_95_tyler_st/t/dji_fly_20261102_173558_0144_1793624030502_photo.jpg?v=1793662783" alt=""></a><a href="9_95_tyler_st/dji_fly_20261102_173628_0145_1793624029861_photo.jpg?v=1793662783" target="_blank"><img loading="lazy" src="9_95_tyler_st/t/dji_fly_20261102_173628_0145_1793624029861_photo.jpg?v=1793662783" alt=""></a><a href="9_95_tyler_st/dji_fly_20261102_173650_0146_1793624029124_photo.jpg?v=1793662783" target="_blank"><img loading="lazy" src="9_95_tyler_st/t/dji_fly_20261102_173650_0146_1793624029124_photo.jpg?v=1793662783" alt=""></a><a href="9_95_tyler_st/dji_fly_20261102_173710_0147_1793624028372_photo.jpg?v=1793662783" target="_blank"><img loading="lazy" src="9_95_tyler_st/t/dji_fly_20261102_173710_0147_1793624028372_photo.jpg?v=1793662783" alt=""></a></div><details class="chk" open><summary>Quick check — boundary + 10 pinned places</summary><iframe loading="lazy" src="9_95_tyler_st/check.html?v=1793662785" title="Boundary and places check"></iframe></details></section><script src="../dl.js"></script></body></html>
